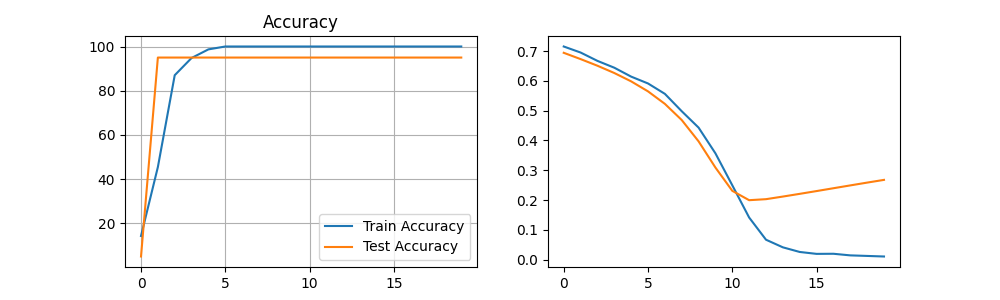
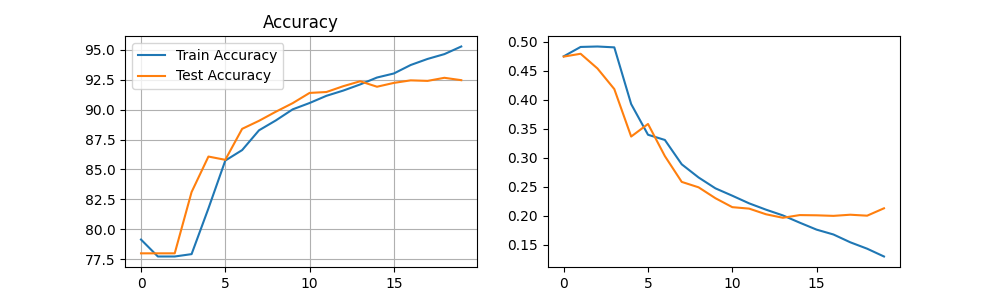
modified:   app.py 	modified:   static/HTML/images/LSTM_test_acc.png 	modified:   static/HTML/images/LSTM_train_acc.png

diff --git a/app.py b/app.py
@@ -1,4 +1,4 @@
-from flask import Blueprint, Flask, session, render_template, request, flash, jsonify, url_for
+from flask import Flask, session, render_template, request, flash, jsonify, url_for
 import google.generativeai as genai
 from io import StringIO
 import pandas as pd 
@@ -10,15 +10,14 @@ from nltk.stem import WordNetLemmatizer
 from nltk.tokenize import word_tokenize
 from sklearn.model_selection import train_test_split
 from sklearn.cluster import KMeans
-from matplotlib import pyplot as plt
-from matplotlib.dates import MonthLocator, DateFormatter, YearLocator
+# from matplotlib import pyplot as plt
+# from matplotlib.dates import MonthLocator, DateFormatter, YearLocator
 lemmatizer = WordNetLemmatizer()
 import mysql.connector
 from sqlalchemy import create_engine
-from sqlalchemy.orm import sessionmaker
 import sqlalchemy as sqlalch
-import openai
 
+import openai
 import gc
 import torch
 gc.collect()
@@ -56,17 +55,14 @@ def addImageURL():
         imagepath = str(request.form["txturldisplay1"])
     else:
         imagepath= "./static/HTML/images/NIA.jpg"
-    
     if str(request.form["txturldisplay2"]) != "":
         imagepath2 = str(request.form["txturldisplay2"]) 
     else:
         imagepath2="./static/HTML/images/NIA.jpg"
-
     if str(request.form["txturldisplay3"]) != "":
         imagepath3 = str(request.form["txturldisplay3"]) 
     else:
-        imagepath3="./static/HTML/images/NIA.jpg"
-    
+        imagepath3="./static/HTML/images/NIA.jpg"    
     if str(request.form["txturldisplay4"]) != "":
         imagepath4 = str(request.form["txturldisplay4"]) 
     else:
@@ -79,9 +75,9 @@ def addImageURL():
     sqlstring = "INSERT INTO image_paths (Model, Brand, Type, Path,Path2,Path3,Path4) VALUES (%s,%s,%s,%s,%s,%s,%s)"    
     strvalue = (model, brand, type, imagepath,imagepath2,imagepath3,imagepath4,)
     cursor.execute(sqlstring, strvalue)
+    notif = "Image Uploaded"
     mysqlconn.commit()
     mysqlconn.close()
-    notif = "Image Uploaded"
     return render_template("newdataset.html", notif=notif)
 
 @app.route("/newdataset")
@@ -175,8 +171,13 @@ def modelrecommendation():
     mysqlconn.reconnect()
     sqlstring = "SELECT * FROM gadget_reviews where Brand='" +brands+"' and Type='"+type+"' and Model='"+model+"'"
     temp_df = pd.read_sql(sqlstring, mysqlconn)
-
     temp_df = sub_datacleaning(temp_df)
+
+    sqlstring_cm = "SELECT * FROM gadget_reviews"
+    temp_df_cm = pd.read_sql(sqlstring_cm, mysqlconn)
+    temp_df_cm = sub_datacleaning(temp_df_cm)
+
+
     attrib_table(temp_df)
     top_reco, k_count = sub_KMeans(type)
     summary_reco, featured_reco, detailed_reco = sub_recommendation_summary(model)
@@ -185,7 +186,7 @@ def modelrecommendation():
     dev_images1,dev_images2,dev_images3,dev_images4 = sub_OpenAI(model, type, brands)
     shop_loc_list = sub_AIresult_Shop_Loc(item_desc)
 
-    train_loss, train_accs, test_loss, test_accs = sub_LSTM(temp_df)
+    train_loss, train_accs, test_loss, test_accs = sub_LSTM(temp_df_cm)
     
     return render_template("index.html",
                         shop_loc_list = shop_loc_list,
@@ -450,6 +451,7 @@ def attrib_graph(data_count):
     ax.set_title('Summary of User Gadget Reviews')
     ax.legend(title='Gadget Labels')
     plt.savefig(".\static\HTML\images\Summary_Graph.png")
+    plt.close()
             
 def sub_LSTM(temp_df):   
 
@@ -485,7 +487,6 @@ def sub_LSTM(temp_df):
     #wv['_____'] the value inside wv is the value needed for prediction
     wordvector_model.wv[word2idx]
     # value = wordvector_model.wv.most_similar('bit', topn=3)
-    #print (value)
 
     #Embedding Matrix
     def convert_sequences_to_tensor(sequences, num_tokens_in_sequence, embedding_size):
@@ -537,9 +538,8 @@ def sub_LSTM(temp_df):
                 hidden_size = hidden_size,
                 num_layers = num_stacked_layers,
                 batch_first = True)
-
+            
             self.dropout = nn.Dropout(drop_prob) # randomly sets outputs of a tensor to 0 during training
-
             self.fc = nn.Linear(hidden_size, 1)
             self.sigmoid = nn.Sigmoid()
 
@@ -646,9 +646,9 @@ def sub_LSTM(temp_df):
         epoch_test_losses.append(epoch_test_loss)
         epoch_test_accs.append(epoch_test_acc)
 
-
-
-
+    # TESTING AND TRAINING GRAPH
+    evaluate_lstm_test_train_result(epoch_train_accs,epoch_test_accs,epoch_train_losses, epoch_test_losses)
+    
     #CONFUSION MATRIX DISPLAY
     evaluate_lstm_model_pytorch(lstm_model,test_loader,label_encoder=None, device='cpu')
 
@@ -657,16 +657,35 @@ def sub_LSTM(temp_df):
             layer.reset_parameters()
 
     return train_loss, train_accs, test_loss, test_accs
-    # return epoch_train_losses, epoch_train_accs, epoch_test_losses, epoch_test_accs
-
 
 #--------------------------------------------------------------------
 # CONFUSION MATRIX, PRECISION, RECALL AND F1 SCORE
 #--------------------------------------------------------------------
+def evaluate_lstm_test_train_result(epoch_train_accs, epoch_test_accs, epoch_train_losses, epoch_test_losses):
+    import matplotlib.pyplot as plt
+    fig = plt.figure(figsize = (10, 3))
+
+    plt.subplot(1, 2, 1)
+    plt.plot(epoch_train_accs, label='Train Accuracy')
+    plt.plot(epoch_test_accs, label='Test Accuracy')
+    plt.title("Accuracy")
+    plt.legend()
+    plt.grid()
+
+    plt.subplot(1, 2, 2)
+    plt.plot(epoch_train_losses, label='Train Loss')
+    plt.savefig("static\HTML\images\LSTM_train_acc.png")
+    plt.plot(epoch_test_losses, label='Test Loss')
+    plt.savefig("static\HTML\images\LSTM_test_acc.png")
+    plt.title("Loss")
+    plt.legend()
+    plt.grid()
+    plt.show()
 
 def evaluate_lstm_model_pytorch(lstm_model, test_loader, label_encoder, device='cpu'):
     from sklearn.metrics import confusion_matrix, ConfusionMatrixDisplay, precision_score, recall_score, f1_score
     import matplotlib.pyplot as plt
+    import seaborn as sns
     lstm_model.to(device)
     lstm_model.eval()
     all_preds = []
@@ -687,15 +706,24 @@ def evaluate_lstm_model_pytorch(lstm_model, test_loader, label_encoder, device='
     
     # Compute confusion matrix
     cm = confusion_matrix(all_labels, all_preds)
-    disp = ConfusionMatrixDisplay(confusion_matrix=cm, display_labels=[0, 1])
-    disp.plot(cmap=plt.cm.Blues)
-    plt.title("Confusion Matrix")
+
+    #Convert Values into percent
+    cm_percent = cm.astype('float') / cm.sum(axis=1)[:, np.newaxis]
+    ax = sns.heatmap(cm_percent, annot=True, fmt=".2%", cmap="Blues")   
+    ax.set_title("Confusion Matrix for LSTM Model")
+    ax.set_xlabel("Predicted")
+    ax.set_ylabel("Actual")
+    
+    #disp = ConfusionMatrixDisplay(confusion_matrix=cm, display_labels=[0, 1])
+    # disp.plot(cmap=plt.cm.Blues)
+    # plt.title("Confusion Matrix")
+    plt.xticks(np.arange(2)+0.5,["Not Recommended", "Recommended"])
+    plt.yticks(np.arange(2)+0.5,["Not Recommended", "Recommended"])
     plt.show()
 
     print(f"Precision: {precision:.4f}")
     print(f"Recall:    {recall:.4f}")
     print(f"F1 Score:  {f1:.4f}")
-
 
 def sub_KMeans(gadgettype):
     mysqlconn.reconnect()
@@ -715,16 +743,16 @@ def sub_KMeans(gadgettype):
     k = 4
     top_kmeans_reco = sorted_ratings.head(k)
 
-    return top_kmeans_reco(), k
-
+    return top_kmeans_reco.items(), k
 
 def sub_decision_tree(gadgettype):
-    from sklearn.tree import DecisionTreeClassifier, plot_tree
+    from sklearn.tree import DecisionTreeClassifier
     from sklearn.model_selection import train_test_split
     from sklearn.feature_extraction.text import CountVectorizer
     import matplotlib.pyplot as plt
-    from scipy.sparse import hstack
-    from sklearn.metrics import classification_report, confusion_matrix, ConfusionMatrixDisplay, precision_score, recall_score, f1_score
+
+    import seaborn as sns
+    from sklearn.metrics import confusion_matrix, precision_score, recall_score, f1_score
 
     mysqlconn.reconnect()
     # dectree_df = pd.read_sql("SELECT * FROM gadget_reviews WHERE Type = '" + gadgettype + "'", mysqlconn)
@@ -742,24 +770,31 @@ def sub_decision_tree(gadgettype):
 
     y_pred = dtc.predict(X_test)
     cm = confusion_matrix(y_test, y_pred)
-    disp = ConfusionMatrixDisplay(confusion_matrix=cm, display_labels=["Not Recommend", "Recommend"])
-    disp.plot(cmap='Blues')
-    plt.title("Confusion Matrix")
+
+    #Convert Values into percent
+    cm_percent = cm.astype('float') / cm.sum(axis=1)[:, np.newaxis]
+
+    ax = sns.heatmap(cm_percent, annot=True, fmt=".2%", cmap="Blues")    
+    ax.set_xlabel("Predicted")
+    ax.set_ylabel("Actual")
+    ax.set_title("Confusion Matrix for Decision Tree (%)")
+    plt.xticks(np.arange(2)+0.5,["Not Recommended", "Recommended"])
+    plt.yticks(np.arange(2)+0.5,["Not Recommended", "Recommended"])
     plt.show()
+    
+    # disp = ConfusionMatrixDisplay(confusion_matrix=cm_percent, display_labels=["Not Recommend", "Recommend"])
+    # disp.plot(cmap='Blues')
+    # plt.title("Confusion Matrix Decision Tree")
+    # plt.show()
 
     # Precision, Recall, F1 Score
     precision = precision_score(y_test, y_pred)
     recall = recall_score(y_test, y_pred)
     f1 = f1_score(y_test, y_pred)
 
-    print(f"Precision: {precision:.3f}")
-    print(f"Recall: {recall:.3f}")
-    print(f"F1 Score: {f1:.3f}")
-
-#need this line to access HTML files inside templates folder
-#app = Flask(__name__)
-#app.register_blueprint(views, url_prefix = "/")
-#this secret_key does not matter, it is just from avoiding error during execution
+    print(f"Precision: {precision:.3%}")
+    print(f"Recall: {recall:.3%}")
+    print(f"F1 Score: {f1:.3%}")
 
 app.secret_key = "abcdef12345"
 if __name__ == "__main__":
